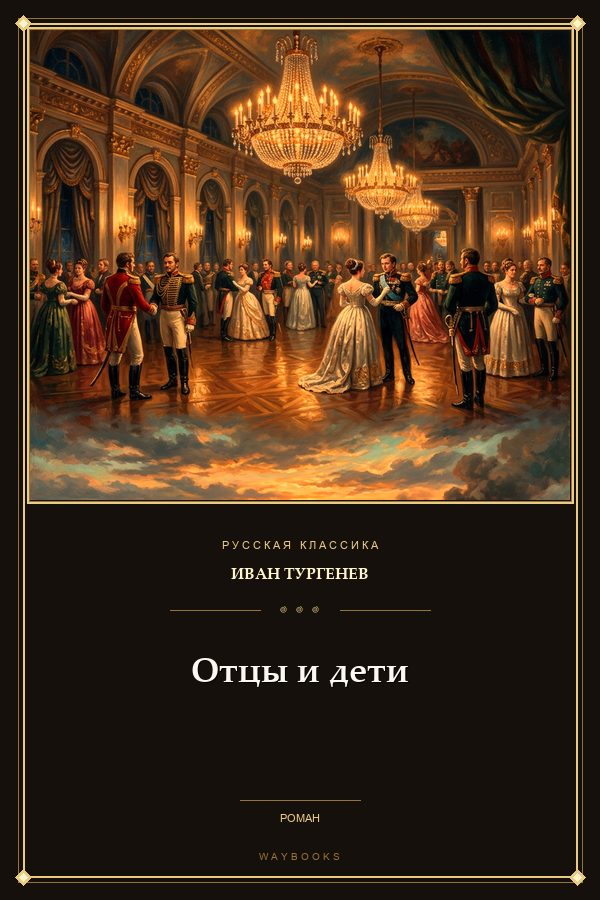
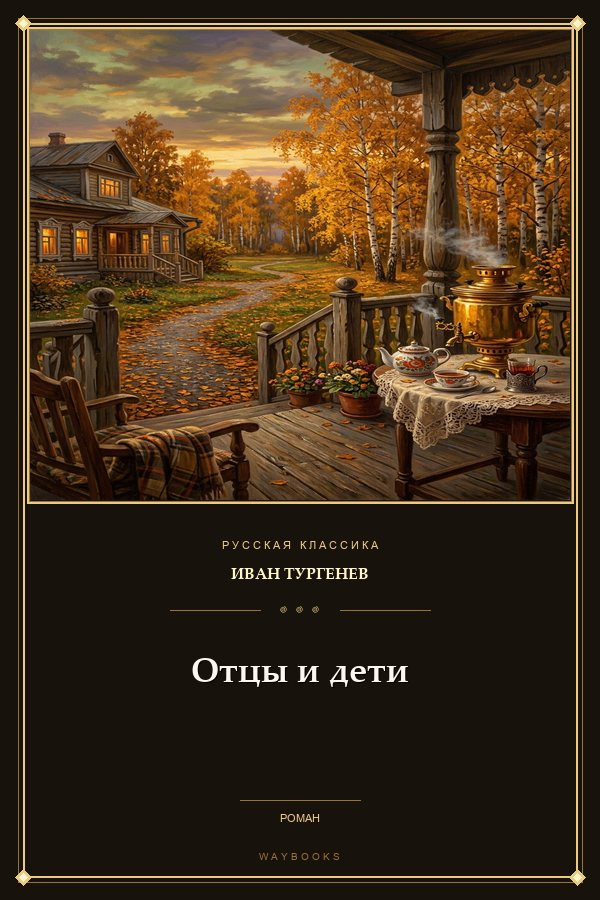
feat: update landing page showcase covers to painted JPG masterpieces

diff --git a/index.html b/index.html
@@ -32,8 +32,9 @@
   --accent:#7c6cff; --accent-2:#b39bff; --accent-glow:rgba(124,108,255,.45);
   --gold:#d9c4a3;
   --radius-sm:12px; --radius:18px; --radius-lg:26px; --radius-xl:34px;
-  --shadow-card:0 10px 30px rgba(0,0,0,.45); --shadow-float:0 18px 50px rgba(0,0,0,.55);
-  --ease:cubic-bezier(.22,1,.36,1);
+  --ease:cubic-bezier(.16,1,.3,1);
+  --ease-spring:cubic-bezier(.34,1.56,.64,1);
+  --ease-smooth:cubic-bezier(.25,1,.5,1);
   --maxw:1120px;
 }
 .hero-badge {
@@ -157,10 +158,21 @@ h1 em{font-style:normal;background:linear-gradient(180deg,#f2e0c3,#b3936a);-webk
 .chip b{color:var(--text);font-weight:600}
 
 /* телефон-витрина */
+@keyframes phone-float {
+  0%, 100% { transform: translateY(0); }
+  50% { transform: translateY(-8px); }
+}
 .phone{
   position:relative;width:min(330px,86vw);margin:0 auto;padding:12px;border-radius:44px;
   background:linear-gradient(160deg,rgba(255,255,255,.10),rgba(255,255,255,.03));
   border:1px solid var(--stroke-strong);box-shadow:var(--shadow-float),0 0 90px rgba(124,108,255,.16);
+  animation: phone-float 6s ease-in-out infinite;
+  transition: transform .4s var(--ease), box-shadow .4s var(--ease);
+}
+.phone:hover {
+  animation-play-state: paused;
+  transform: translateY(-10px) scale(1.015);
+  box-shadow: var(--shadow-float), 0 0 120px rgba(124,108,255,.32);
 }
 
 .phone img{border-radius:33px;display:block;width:100%}
@@ -181,24 +193,35 @@ h2{
 .grid{display:grid;grid-template-columns:repeat(auto-fit,minmax(258px,1fr));gap:16px}
 .card{
   position:relative;padding:24px;border-radius:var(--radius-lg);background:var(--card);border:1px solid var(--stroke);
-  box-shadow:var(--shadow-card);overflow:hidden;transition:transform .3s var(--ease),border-color .3s var(--ease);
+  box-shadow:var(--shadow-card);overflow:hidden;transition:transform .35s var(--ease),border-color .35s var(--ease),box-shadow .35s var(--ease);
 }
 .card::before{
   content:"";position:absolute;inset:0;pointer-events:none;
   background:radial-gradient(120% 80% at 0% 0%,rgba(255,255,255,.07),transparent 60%);
+  transition: opacity .35s var(--ease);
 }
-.card:hover{transform:translateY(-3px);border-color:var(--stroke-strong)}
+.card:hover{
+  transform:translateY(-5px);
+  border-color:rgba(179,155,255,.35);
+  box-shadow:0 16px 40px rgba(0,0,0,.5),0 0 30px rgba(124,108,255,.14);
+}
 .card .ico{
   width:42px;height:42px;border-radius:13px;display:grid;place-items:center;margin-bottom:15px;
   background:linear-gradient(140deg,rgba(124,108,255,.22),rgba(179,155,255,.08));border:1px solid rgba(179,155,255,.24);color:var(--accent-2);
+  transition: transform .35s var(--ease-spring);
 }
+.card:hover .ico{ transform: scale(1.1) rotate(4deg); }
 .card .ico svg{width:21px;height:21px}
 .card h3{margin:0 0 8px;font-size:17.5px;font-weight:600}
 .card p{margin:0;font-size:14.5px;color:var(--text-dim);line-height:1.6}
 
 /* —--- цифры */
 .stats{display:grid;grid-template-columns:repeat(auto-fit,minmax(150px,1fr));gap:14px;margin-top:18px}
-.stat{padding:22px 20px;border-radius:var(--radius);background:var(--card);border:1px solid var(--stroke);text-align:center}
+.stat{
+  padding:22px 20px;border-radius:var(--radius);background:var(--card);border:1px solid var(--stroke);text-align:center;
+  transition: transform .3s var(--ease), border-color .3s var(--ease);
+}
+.stat:hover{ transform: translateY(-3px); border-color: rgba(217,196,163,.3); }
 .stat .n{
   font-family:Georgia,serif;font-size:clamp(26px,3.4vw,34px);font-weight:700;line-height:1;
   background:linear-gradient(180deg,#f2e0c3,#b3936a);-webkit-background-clip:text;background-clip:text;color:transparent;
@@ -206,21 +229,29 @@ h2{
 .stat .l{margin-top:8px;font-size:12.5px;letter-spacing:.4px;text-transform:uppercase;color:var(--text-faint)}
 
 /* ——— полка обложек */
-/* scrollbar-width/scrollbar-color отключают ::-webkit-scrollbar: с ними Chrome рисует нативную
-   полосу с кнопками-стрелками. Поэтому здесь полоска своя, а стандартные свойства — только
-   для Firefox, где псевдоэлементов webkit нет */
 .shelf{
-  display:flex;gap:14px;overflow-x:auto;padding:6px 0 22px;scroll-snap-type:x mandatory;
+  display:flex;gap:16px;overflow-x:auto;padding:8px 4px 24px;scroll-snap-type:x mandatory;
+  scroll-behavior: smooth;
 }
 .shelf::-webkit-scrollbar{height:8px}
 .shelf::-webkit-scrollbar-track{background:transparent}
 .shelf::-webkit-scrollbar-button{display:none;width:0;height:0}
-.shelf::-webkit-scrollbar-thumb{background:rgba(217,196,163,.3);border-radius:99px}
-.shelf:hover::-webkit-scrollbar-thumb{background:rgba(217,196,163,.5)}
+.shelf::-webkit-scrollbar-thumb{background:rgba(217,196,163,.3);border-radius:99px;transition:background .2s}
+.shelf:hover::-webkit-scrollbar-thumb{background:rgba(217,196,163,.55)}
 @supports not selector(::-webkit-scrollbar){
   .shelf{scrollbar-width:thin;scrollbar-color:rgba(217,196,163,.28) transparent}
 }
-.shelf img{width:132px;height:198px;border-radius:12px;flex:none;scroll-snap-align:start;box-shadow:var(--shadow-card)}
+.shelf img{
+  width:132px;height:198px;border-radius:12px;flex:none;scroll-snap-align:start;box-shadow:var(--shadow-card);
+  transition: transform .38s var(--ease), box-shadow .38s var(--ease);
+}
+.shelf img:hover{
+  transform: translateY(-8px) scale(1.05);
+  box-shadow: 0 18px 40px rgba(0,0,0,.65), 0 0 25px rgba(124,108,255,.24);
+}
+.shelf img:active{
+  transform: scale(0.96);
+}
 
 /* ——— установка */
 .steps{display:grid;grid-template-columns:repeat(auto-fit,minmax(240px,1fr));gap:16px;counter-reset:s}
